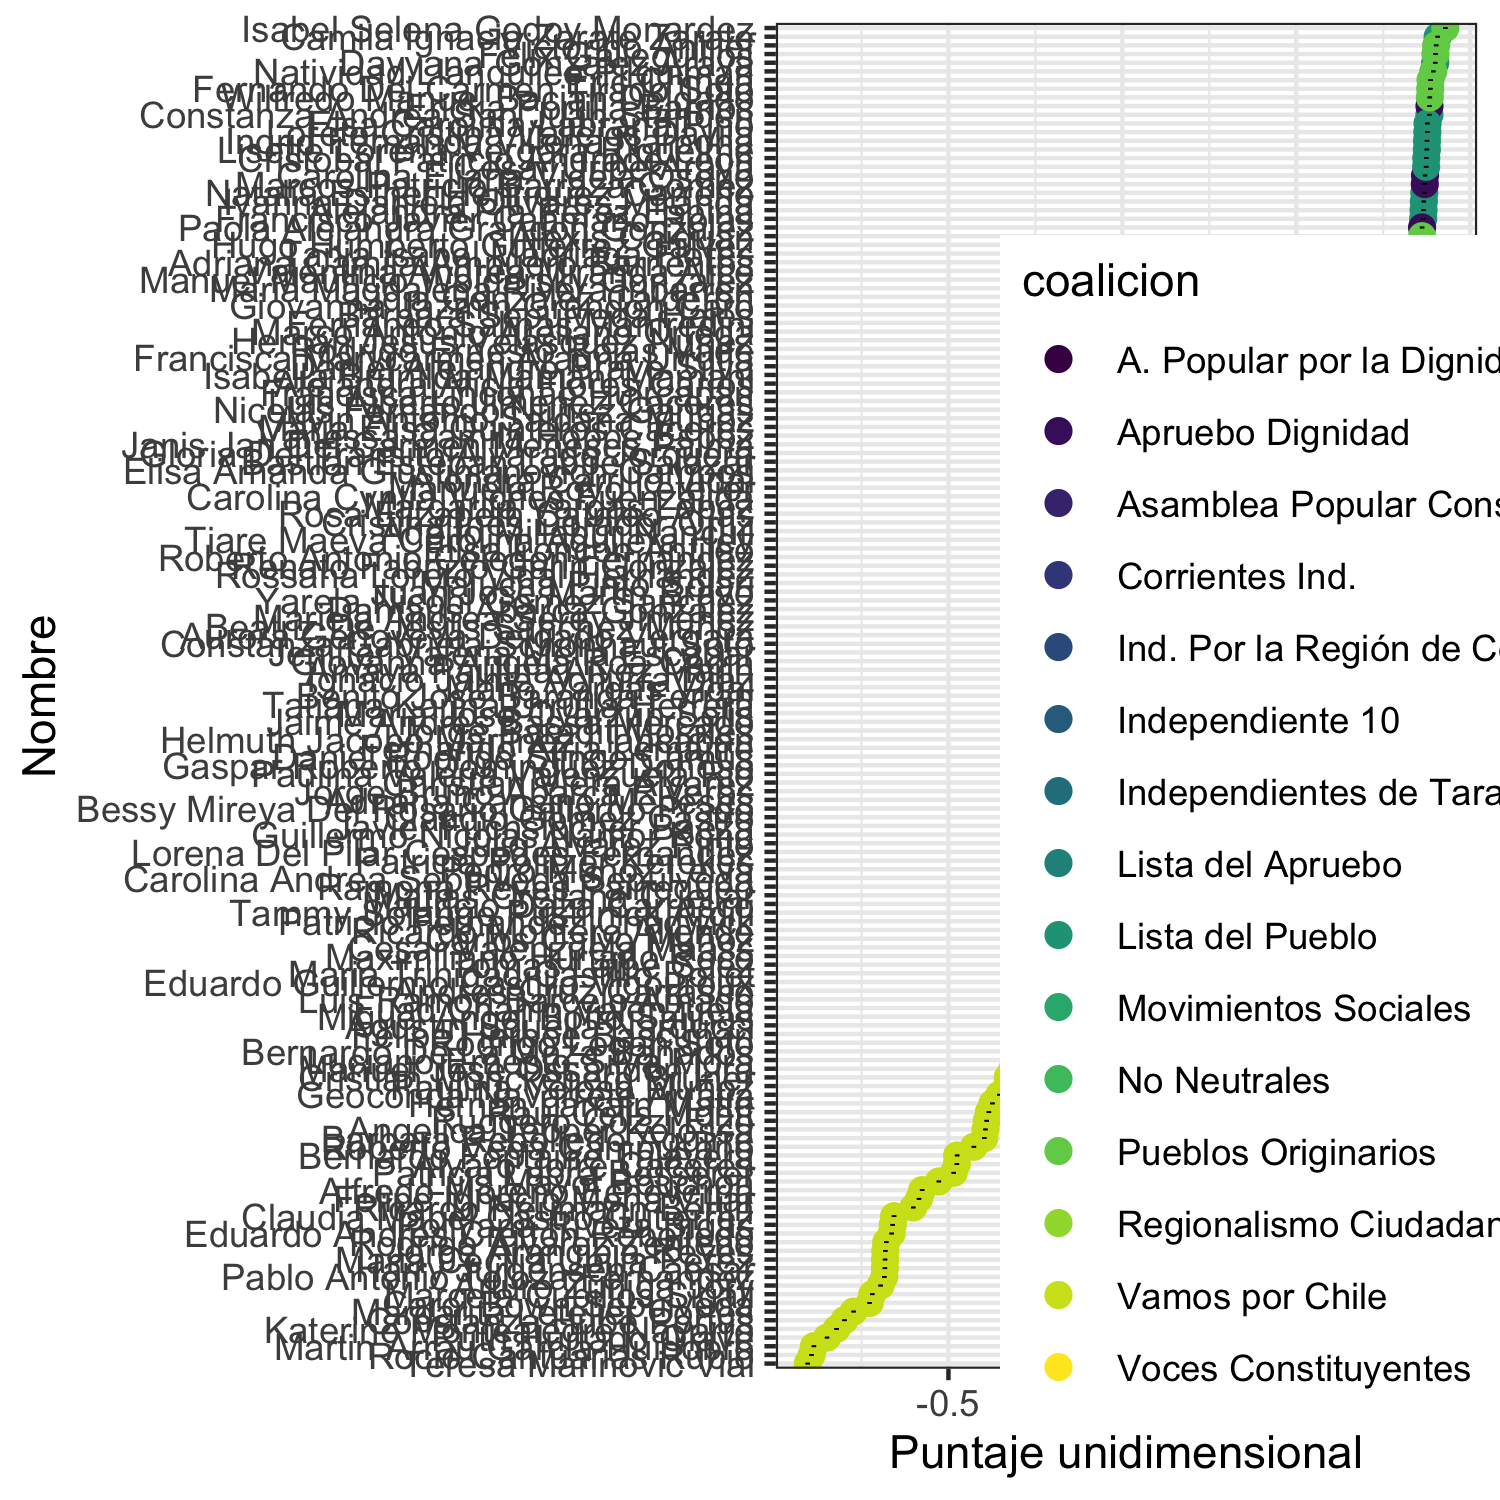
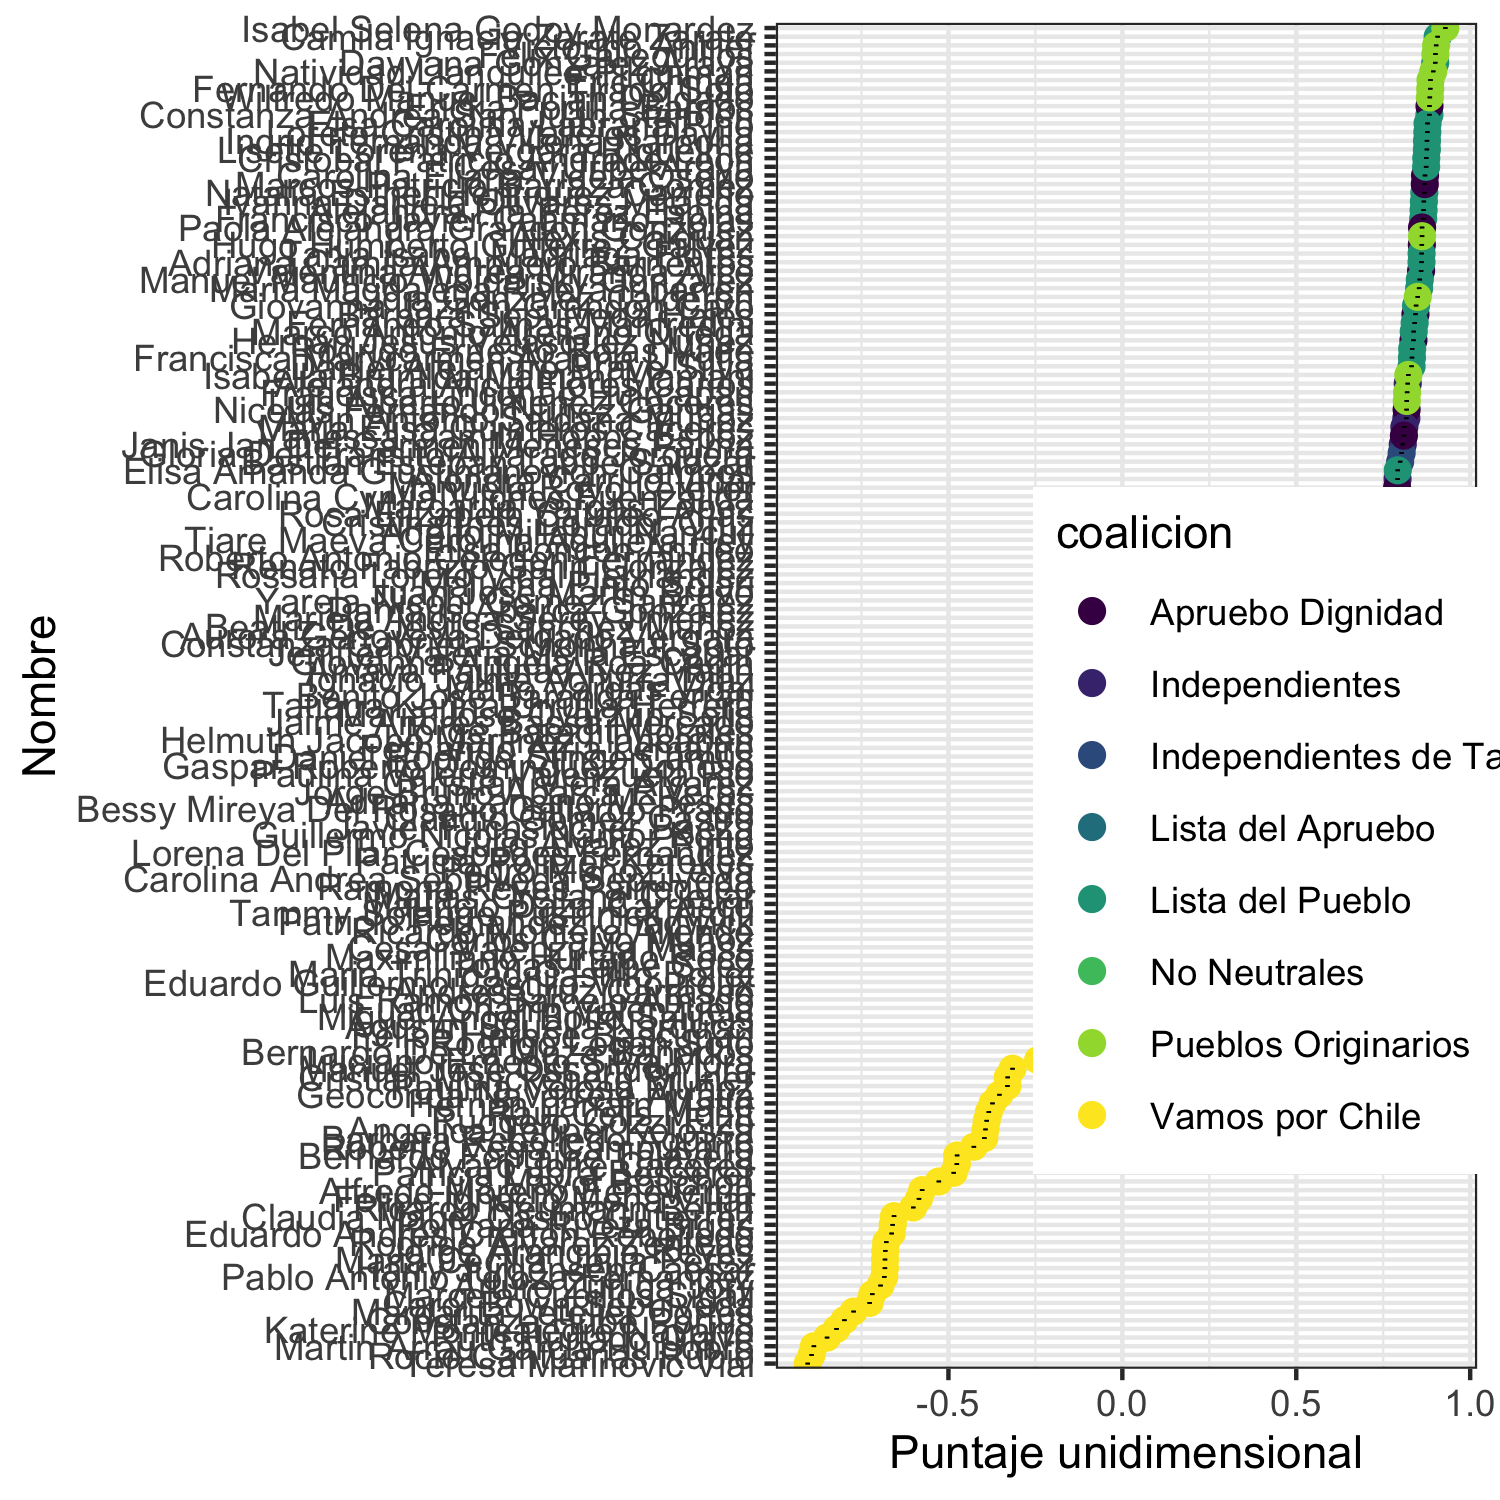
ss

Changed region(s): [[0.6133, 0.1533, 1.0, 0.9507], [0.5213, 0.7973, 0.6133, 0.92], [0.92, 0.0, 0.9813, 0.092]]

diff --git a/_pages/constituyentes.md b/_pages/constituyentes.md
@@ -15,18 +15,20 @@ En esta página puedes detalles de los constituyentes. La primera sección usa e
 ### Posicionamiento ideológico de constituyentes
 ![cc](/images/posicionamiento/puntos_ideales_coalicion.png){:height="100%" width="100%"}
 ![cc](/images/posicionamiento/puntos_ideales_nombres.png){:height="100%" width="100%"}
-![cc](/images/posicionamiento/puntos_ideales_nombres2.png){:height="100%" width="100%"}
+
 
 ### Posicionamiento ideológico de coaliciones
 ![cc](/images/posicionamiento/puntos_ideales_vamosporchile.png){:height="32%" width="32%"}
 ![cc](/images/posicionamiento/puntos_ideales_lda.png){:height="32%" width="32%"}
+![cc](/images/posicionamiento/puntos_ideales_apruebodignidad.png){:height="32%" width="32%"}
 ![cc](/images/posicionamiento/puntos_ideales_noneutrales.png){:height="32%" width="32%"}
-![cc](/images/posicionamiento/puntos_ideales_listadelpueblo.png){:height="100%" width="100%"}
+![cc](/images/posicionamiento/puntos_ideales_listadelpueblo.png){:height="32%" width="32%"}
 ![cc](/images/posicionamiento/puntos_ideales_pueblosoriginarios.png){:height="32%" width="32%"}
 
+
 ### Posicionamiento ideológico de comisiones
-![cc](/images/posicionamiento/puntos_ideales_justicia.png){:height="100%" width="100%"}
-![cc](/images/posicionamiento/puntos_ideales_medioambiente.png){:height="100%" width="100%"}
+![cc](/images/posicionamiento/puntos_ideales_justicia.png){:height="49%" width="49%"}
+![cc](/images/posicionamiento/puntos_ideales_medioambiente.png){:height="49%" width="49%"}
 
 
 ### Convencionales Constituyentes
